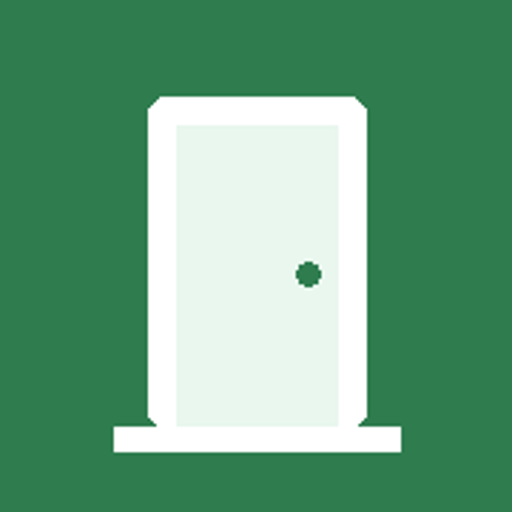
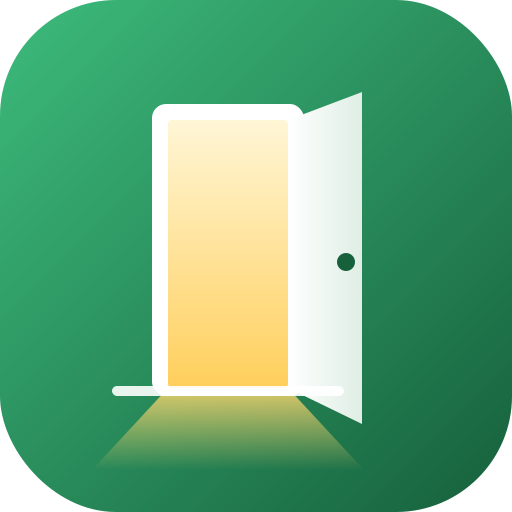
Stato "Università chiusa" e nuova icona
Claude-Session: https://claude.ai/code/session_01EXSNauKAu1wsjP1M2HcVgx

diff --git a/app.js b/app.js
@@ -109,6 +109,11 @@
     .al-bar{position:relative;height:8px;background:#d9f0e1;border-radius:4px;margin-top:6px;overflow:hidden}
     .al-bar i{position:absolute;top:0;bottom:0;background:#e0675a}
     .al-bar b{position:absolute;top:-2px;bottom:-2px;width:2px;background:#1d1d1f}
+    .al-closed{text-align:center;padding:36px 20px;margin:12px 0;border-radius:14px;background:#f3f4f6}
+    .al-closed .ic{font-size:40px;line-height:1}
+    .al-closed h3{margin:10px 0 6px;font-size:22px;color:#1d1d1f}
+    .al-closed p{margin:4px 0;color:#444}
+    .al-closed .n{font-size:13px;color:#888;margin-top:10px}
     .al-ticks{display:flex;justify-content:space-between;font-size:10px;color:#999;margin-top:2px}
   </style>
   <div id="al-head">
@@ -250,6 +255,25 @@
         <b style="left:${(t - ap) / span * 100}%"></b></div>`;
     };
     const ticks = `<div class="al-ticks"><span>8</span><span>11</span><span>14</span><span>17</span><span>20</span></div>`;
+
+    // Università chiusa: nessuna lezione in questi edifici quel giorno, oppure l'ora scelta è
+    // prima della prima lezione o dopo la fine dell'ultima (quindi nessuna aula è occupata).
+    const impEd = [...new Map([...perAula.values()].filter(x => !ESCLUDI_AULE.test(x.a.desc || ''))
+      .flatMap(x => x.imp).map(i => [i.id, i])).values()];
+    const primo = impEd.length ? Math.min(...impEd.map(i => i.s)) : null;
+    const ultimo = impEd.length ? Math.max(...impEd.map(i => i.e)) : null;
+    const chiusa = !occupate.length && (!impEd.length || t < primo || t >= ultimo);
+    if (chiusa) {
+      const quando = giornoSel.toLocaleDateString('it-IT', { weekday: 'long', day: 'numeric', month: 'long' });
+      const motivo = !impEd.length
+        ? `Nessuna lezione in programma ${esc(quando)} in questi edifici.`
+        : t < primo ? `Le lezioni di ${esc(quando)} iniziano alle ${hhmm(new Date(primo))}.`
+        : `Le lezioni di ${esc(quando)} sono finite alle ${hhmm(new Date(ultimo))}.`;
+      $('#al-out').innerHTML = `<div class="al-closed"><div class="ic">🔒</div><h3>Università chiusa</h3><p>${motivo}</p>
+        <p class="n">Prova a cambiare giorno o ora.</p></div>`;
+      status(`Nessuna aula occupata alle ${hhmm(new Date(t))}.`);
+      return;
+    }
 
     $('#al-out').innerHTML =
       `<div class="al-sec">Libere alle ${hhmm(new Date(t))} (${libere.length})</div>` +

diff --git a/index.html b/index.html
@@ -8,14 +8,15 @@
 <meta name="mobile-web-app-capable" content="yes">
 <meta name="apple-mobile-web-app-title" content="Aule libere">
 <meta name="apple-mobile-web-app-status-bar-style" content="default">
-<meta name="theme-color" content="#ffffff">
+<meta name="theme-color" content="#2f7d4f">
 <link rel="apple-touch-icon" href="icon-180.png">
-<link rel="icon" type="image/png" href="icon-180.png">
+<link rel="icon" type="image/svg+xml" href="favicon.svg">
+<link rel="icon" type="image/png" sizes="192x192" href="icon-192.png">
 <link rel="manifest" href="manifest.webmanifest">
 <style>html,body{margin:0;background:#fff}</style>
 </head>
 <body>
 <noscript>Serve JavaScript attivo.</noscript>
-<script src="app.js"></script>
+<script src="app.js?v=2"></script>
 </body>
 </html>
